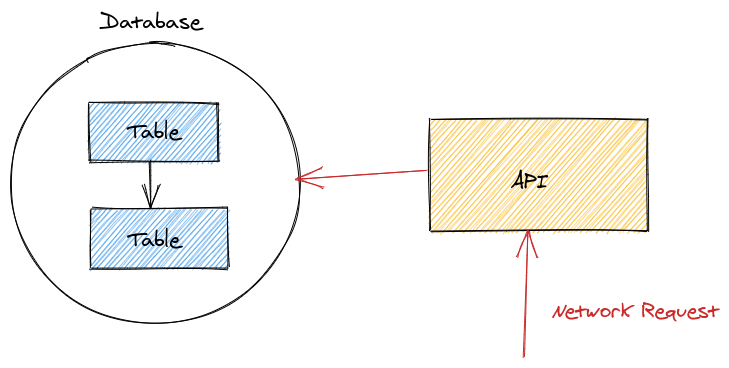
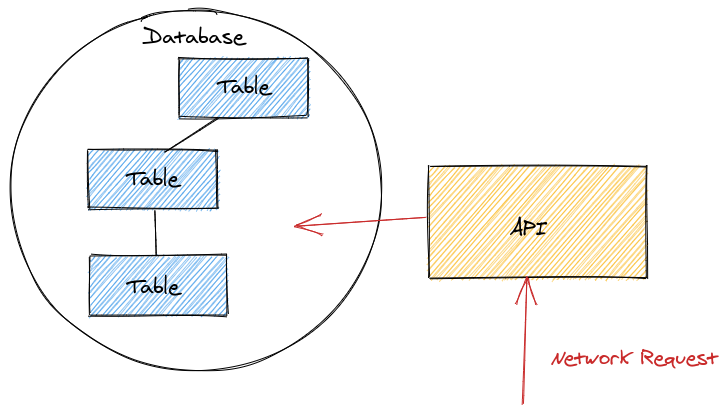
more tables

diff --git a/_posts/2020-04-07-the-high-cost-of-splitting-related-data.md b/_posts/2020-04-07-the-high-cost-of-splitting-related-data.md
@@ -10,7 +10,7 @@ Consider the following simple architecture:
 
 <img style="display: block; max-width: 100%; margin: 2em auto;" src="{{ '/img/articles/split/split-original.png' | absolute_url }}" />
 
-The two tables in the database are related. I use 'related' loosely:
+The tables in the database are related. I use 'related' loosely:
 there could be a foreign key from one table to another, maybe a shared
 identifier. To generalise, it is data that tends to be combined when
 queried.
@@ -19,7 +19,7 @@ A common anti-pattern I see is to split the data like this:
 
 <img style="display: block; max-width: 60%; margin: 2em auto;" src="{{ '/img/articles/split/split-plus1.png' | absolute_url }}" />
 
-Notice how the relationship between the tables has been pushed up from
+Notice how the relationship between two related tables has been pushed up from
 the database layer to the application layer.
 
 This is often detrimental to reliability, performance, correctness,
